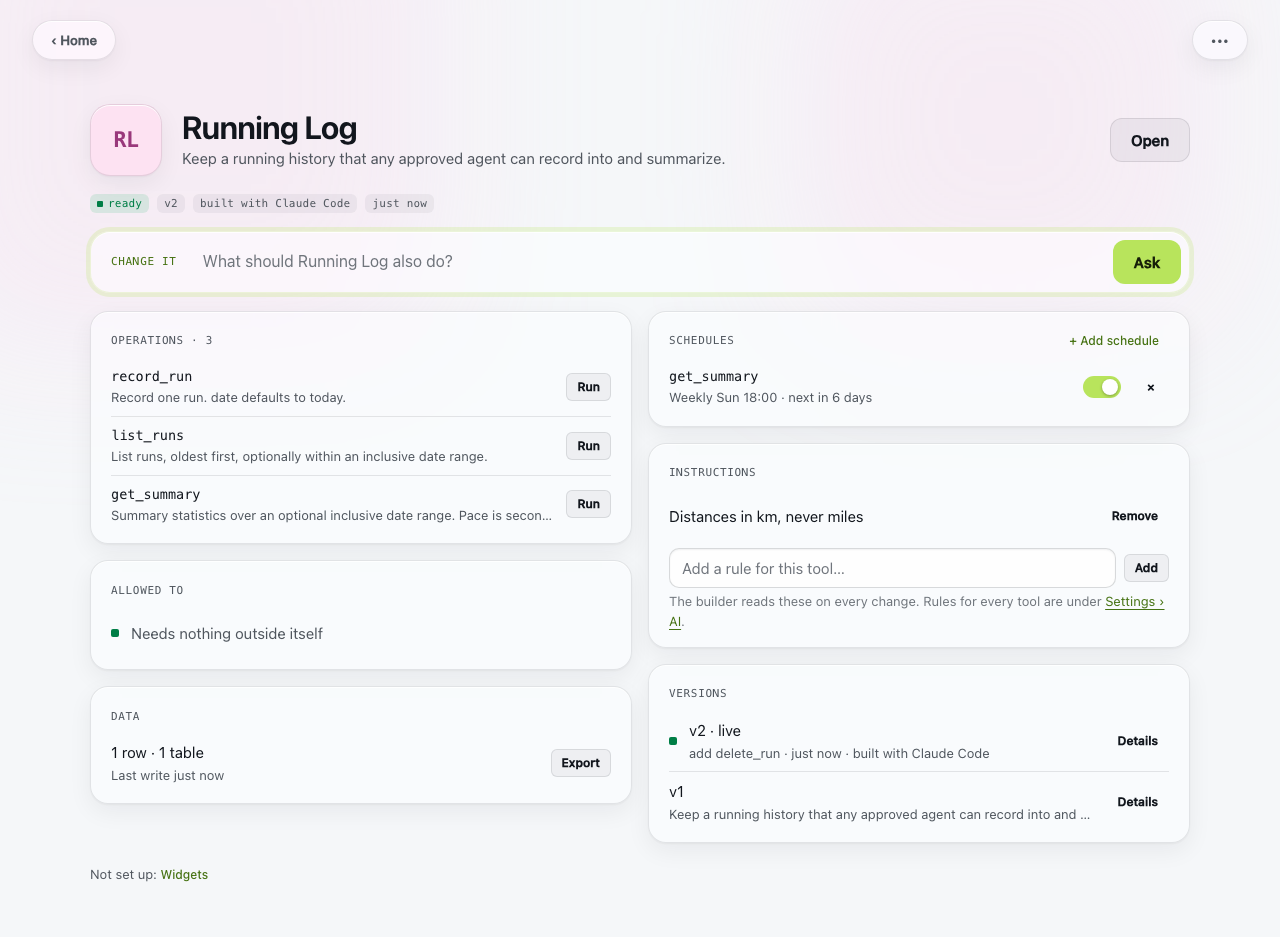
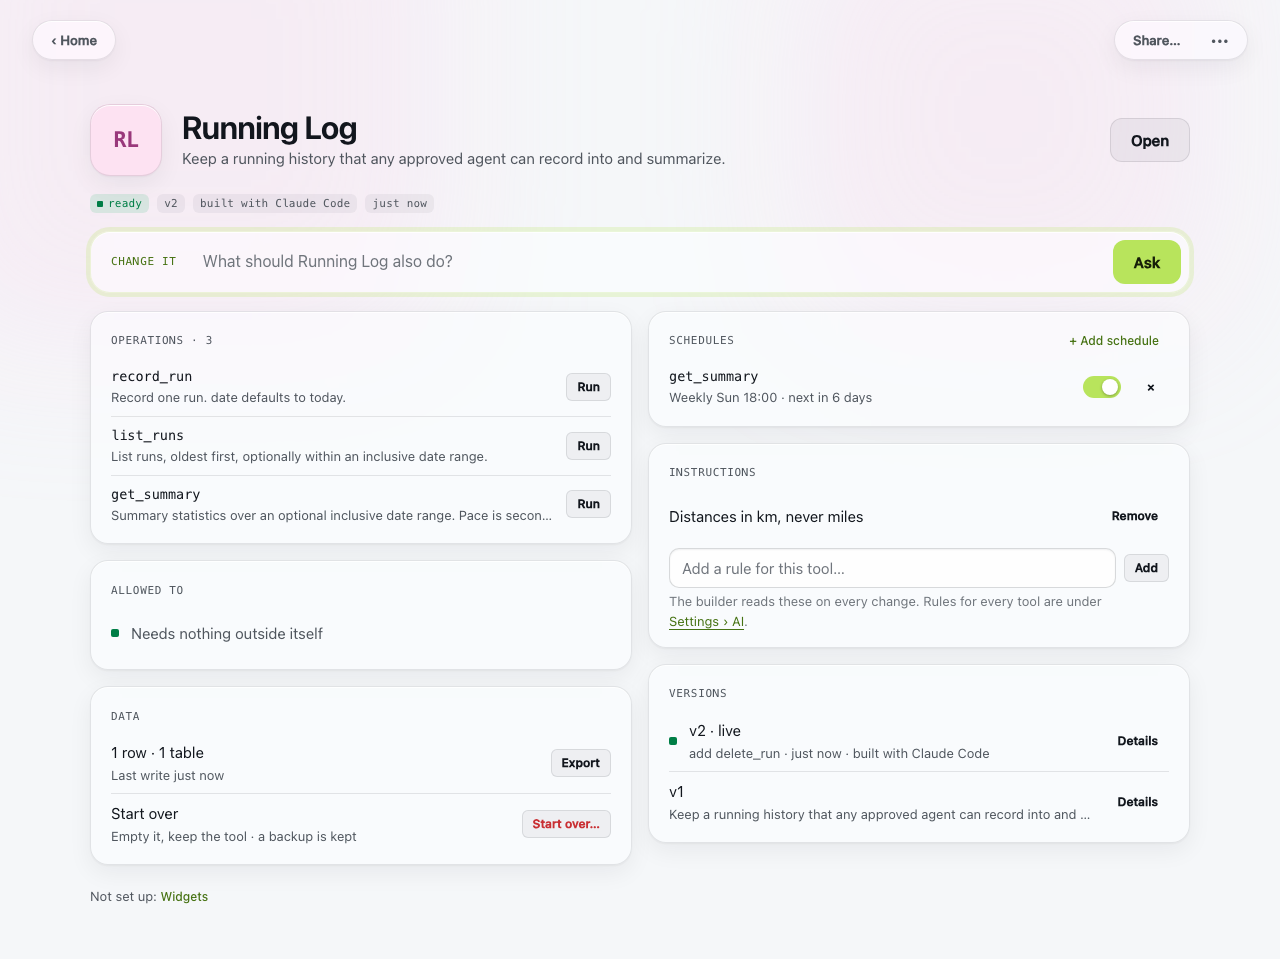
Docs and screenshots for sharing and the Hub
Architecture (the sharing domain, bundles, the shelf), security (code from outside: the same checks and sandbox, the reading is advice, source is the platform's, sample data runs with nothing granted, the scan before sharing), the threat model, writing tools (sample data); screenshots of the Hub, Share…, installing from Hub and a version's Files, from docs-shots.

diff --git a/test/e2e/docs-shots.ts b/test/e2e/docs-shots.ts
@@ -190,6 +190,43 @@ try {
     return { x: r.left, y: r.top + window.scrollY, width: r.width, height: r.height };
   });
   await shot("build-failed", { width: 1280, height: 1000, clip: { x: card.x - 20, y: card.y - 20, width: card.width + 40, height: card.height + 40 } });
+
+  // 6. The Hub: Hewn's own tools.
+  await page.setViewportSize({ width: 1280, height: 1000 });
+  await page.goto(`${web}/#/hub`);
+  await page.locator(".hub-card").first().waitFor();
+  await page.waitForTimeout(800);
+  await shot("hub", { width: 1280, height: 1000 });
+
+  // 7. Share…: Running Log with sample data, written by hand (a new version, v3).
+  const sample = JSON.stringify([1, 2, 3].map((n) => ({ operation: "record_run", input: { distanceKm: 4 + n * 1.5, durationSeconds: 1400 + n * 420, notes: n === 2 ? "Hill repeats" : undefined } })), null, 2);
+  const sb = await page.evaluate(async (text: string) => (await fetch("/api/capabilities/running-log/sample", { method: "POST", headers: { "x-hewn-ui": "1", "content-type": "application/json" }, body: JSON.stringify({ text }) })).json(), sample);
+  await settle(sb.buildId);
+  await page.goto(`${web}/#/c/running-log`);
+  await page.locator(".info-section").first().waitFor();
+  await page.getByRole("button", { name: "Share…" }).click();
+  await page.locator("dialog[open]").getByText("always included").waitFor();
+  await page.waitForTimeout(400);
+  const dialog = async () => {
+    const r = await page.locator("dialog[open]").last().boundingBox();
+    return { x: r!.x - 16, y: r!.y - 16, width: r!.width + 32, height: r!.height + 32 };
+  };
+  await shot("share", { width: 1280, height: 1000, clip: await dialog() });
+  await page.keyboard.press("Escape");
+
+  // 8. Installing from the Hub: Hewn's reading, what it will ask for, the name, sample data.
+  await page.goto(`${web}/#/hub/plant-log`);
+  await page.getByRole("button", { name: "Install" }).click();
+  await page.locator("dialog[open]").getByText("It will ask for").waitFor();
+  await page.waitForTimeout(400);
+  await shot("install", { width: 1280, height: 1000, clip: await dialog() });
+  await page.keyboard.press("Escape");
+
+  // 9. A version's files: what v3 changed (its sample data).
+  await page.goto(`${web}/#/c/running-log/v/3?tab=files`);
+  await page.locator(".code-line").first().waitFor();
+  await page.waitForTimeout(400);
+  await shot("version-files", { width: 1280, height: 760 });
 } finally {
   await browser.close();
   await sv.stop();

diff --git a/docs/internal/architecture.md b/docs/internal/architecture.md
@@ -50,7 +50,7 @@ Integration tests are in `test/`. Example tools are in `seeds/`.
 | --- | --- | --- | --- |
 | `Sql` | the owner's database, synchronous | DO `storage.sql` | `node:sqlite` |
 | `Blobs` | versions, owner icons, screenshots | the `disk` service | a directory |
-| `CapabilityRuntime` | invoke, describe, migrate, copy and drop state | CapabilityHost + facets | in-process |
+| `CapabilityRuntime` | invoke, describe, migrate, copy and drop state, dump and count it | CapabilityHost + facets | in-process |
 | `Workbench` | build workspaces: open, run a builder, bundle, read back, visual check | the supervisor | local (`packages/cli/src/workbench.ts`) |
 | `SecretStore` | capability secrets and model keys | AES-256-GCM rows in the owner's database | memory |
 
@@ -62,7 +62,8 @@ Every authority check happens in the core, not in the MCP or HTTP layer, so ever
 | --- | --- |
 | `discovery.ts` | `list` and `get`: the capabilities a principal can see |
 | `presentation.ts` | a tool's name, icon, hue and saturation as the owner sets them |
-| `data.ts` | a tool's lifecycle and data, owner only: delete (archive) and restore, rollback, purge, export and import |
+| `data.ts` | a tool's lifecycle and data, owner only: delete (archive) and restore, rollback, purge, export and import, Start over, its rows per table, and its versions' files for the code browser |
+| `sharing.ts` | a tool as a file: the share check (the scan) and the bundle, staging and installing a file, the owner's reading of it (the intake's summary), the Official shelf, sample data |
 | `grants.ts` | readiness, grants, secrets and config, delegated agents, the owner's confirmation of agents' destructive calls |
 | `connections.ts` | Accounts: a connection's sign-in step and health |
 | `sessions.ts` | tool UI tickets and sessions, web sessions, the public URL, passkeys |
@@ -78,7 +79,11 @@ Every authority check happens in the core, not in the MCP or HTTP layer, so ever
 
 Each extends `Domain` (`context.ts`): the ports, the event bus, the cache of loaded versions, and the lookups every domain makes (`activeManifest`, `loadVersion` …). A domain calls another domain's public methods through the facade (`this.platform.readiness()`), so a wrapper on a `Platform` method sees every call from another domain (a domain's calls to its own methods stay inside it), and reaches what `Platform` doesn't offer through `this.d` (`this.d.grants.offers()`). Settings a host or a test may change after start (`confirmWaitMs`, `logRetentionDays` …) stay on `Platform` and are read from it each time.
 
-The lower-level modules sit next to `platform.ts`: `registry.ts` (the owner's database), `models.ts` (provider adapters, the catalog), `widgets.ts` (templates), `schedules.ts` (cadences, the store), `docs.ts` (Hewn's docs for `hewn_docs` and the intake: sections and search) and the rest. `platform.ts` re-exports the domains' types and helpers, so hosts and tests import from `@hewntools/core/platform.ts` only.
+The lower-level modules sit next to `platform.ts`: `registry.ts` (the owner's database), `models.ts` (provider adapters, the catalog), `widgets.ts` (templates), `schedules.ts` (cadences, the store), `docs.ts` (Hewn's docs for `hewn_docs` and the intake: sections and search), `bundle.ts` (a tool as a file: a store-only zip with CRC32, the `hewn-bundle.json` sidecar, `sample/calls.json`, and the scan before sharing), `diff.ts` (the line diff and hunks the code browser shows) and the rest.
+
+**A tool as a file.** `<id>.hewn.zip` holds one version's files (what `versionFiles` keeps) and the sidecar: the format, the Hewn and ABI that made it, the tool and version it came from (`{ id, version, hash }`) and, from Hewn's own shelf, Hewn's reading. Installing one stages it first (`bundles/<token>.zip` in the blobs, a day at most) so the owner can read its code and have the intake summarize it (mode `summarize`), then runs a create build whose builder is `bundle` (no builder runs) through the normal validation. The manifest's `source` (ABI 2.5) comes from the capability's record (`capabilities.source`, or the install's request for its first version); validation stamps it on every version, so a builder can't change or drop it. Sample data replays after an install with sample data, or a Start over, through `Validation.replayCall`: the contract, with no hosts, no other tools and no model.
+
+**The Official shelf** is `seeds/` (`shelf.json`, and each tool's `.hub/` folder with its listing and card images, which never becomes part of a version). The supervisor reads it (`cli/src/shelf.ts`) and serves it to workerd (`/shelf/tools`, `/shelf/image`); the npm package carries it in `dist/seeds/`. `test/e2e/hub-shots.ts` makes the card images. `platform.ts` re-exports the domains' types and helpers, so hosts and tests import from `@hewntools/core/platform.ts` only.
 
 Principals (`auth.ts`): `user` (the owner, from the web client or the CLI), `agent` (an MCP client), `ui` (a tool's own UI, limited to that tool), `capability` (a `ctx.call`), `schedule` and `widget`.
 

diff --git a/docs/threat-model.md b/docs/threat-model.md
@@ -12,6 +12,7 @@ What Hewn protects when it runs on your own machine, and what it doesn't. Short 
 | **Agents over MCP** | OAuth with your approval for each one. Tokens are stored hashed and expire (1 hour, refreshed for up to 30 days of use). Agents get only the scopes you approve, and can't grant themselves anything. Destructive operations wait for your confirmation, also when the agent reaches them through another tool. Reconnecting an agent keeps what you narrowed it to. Disconnecting an agent takes effect on its next call. |
 | **The internet (with a tunnel or a public URL)** | The tunnel and the reverse proxy reach a separate listener. On any host there, only MCP and the agent sign-in endpoints answer. On the public URL's hosts (`hewn url`), the web client and tool UIs answer too, behind a passkey or a sign-in link printed on the server ([remote access](remote-access.md)). Admin never answers there. Requests are rate limited per address (as your proxy reports it) and logged. Anyone can *ask* to connect an agent, but nothing is granted without your approval. Pending requests are capped, separately from your local ones, and expire after 15 minutes. |
 | **Other websites in your browser** | Hewn's local port answers only its own names (`127.0.0.1`, `localhost`, `hewn.localhost`), so a page can't reach it by pointing its own name at your machine (DNS rebinding), and MCP refuses other sites' requests. The web client has its own origin (`hewn.localhost`, or the public URL); each tool UI runs sandboxed on an opaque origin (under `/tools/<id>/`), with a strict CSP and SameSite cookies (`__Host-` and `Secure` on the public URL). Sign-in links work once, for two minutes. Passkeys work only on the address they were made for. |
+| **A tool someone shared with you** | It installs through the same checks as a tool your builder makes, and runs in the same sandbox. Nothing in its file grants it anything: it asks for hosts, a model or your other tools after it's installed, one grant at a time. Before you install it, your builder reads its code and says what it does with your data, and you can read all of it. A file never carries anyone's data, keys or settings. |
 | **Lost data** | Versions are immutable, and migrations can't destroy data and are tested on a copy first. There's rollback, export, and nightly backups. Backups never contain secrets in plain text or usable tokens. |
 
 ## What isn't protected

diff --git a/docs/building-tools.md b/docs/building-tools.md
@@ -71,7 +71,9 @@ If the builder itself can't work (signed out, out of usage), Hewn stops instead 
 
 Every change is a new version. Your data stays and moves forward with each one. Info shows the last two; **All versions** (or **Versions** in the tool's menu) lists every one. **Details** opens a version; **Restore** there makes it active again, with the data kept. Restoring is refused if a newer version changed the data in a way the older code can't read.
 
-A version's page shows what led to it: the conversation with the intake, the spec and the builder's log, one tab each. **Files** shows its code: **Changes** lists what changed since the version before, each file as a diff (added lines green, removed lines red, with both line numbers), and **Source** shows every file as it is. **Continue from here** opens a change with that conversation on top, so you pick up where you left off instead of explaining the tool again; opening **Change…** on a tool offers the same ("Continue from the last conversation?").
+A version's page shows what led to it: the conversation with the intake, the spec and the builder's log, one tab each. **Files** shows its code: **Changes** lists what changed since the version before, each file as a diff (added lines green, removed lines red, with both line numbers), and **Source** shows every file as it is.
+
+![A version's Files: what changed since the version before, as a diff with both line numbers](images/version-files.png) **Continue from here** opens a change with that conversation on top, so you pick up where you left off instead of explaining the tool again; opening **Change…** on a tool offers the same ("Continue from the last conversation?").
 
 Operations are versioned too (`list_runs@1`). A breaking change adds `list_runs@2` next to the old one, so agents and other tools that use `@1` keep working.
 

diff --git a/docs/internal/security-and-authority.md b/docs/internal/security-and-authority.md
@@ -338,6 +338,15 @@ The platform still owns:
 
 An authorization engine answers relationship questions; it does not replace product-level authority semantics.
 
+## Code from outside (a shared tool)
+
+A tool installed from a file or from the Hub runs through the same validation and sandbox as a builder's: its manifest, its code bundled and loaded, its tests, its migrations, its UI rendered. Nothing in a bundle can grant itself anything: what its manifest asks for (hosts, a model, other tools' operations, secrets for a connection) is asked of the owner after install, one grant at a time, as for any new tool. A bundle never holds state, secrets, config values, the build's conversation or logs, and says nothing about whose Hewn it came from.
+
+- **The reading is advisory.** The intake's summary (Hewn's for an Official tool, the owner's own builder's for a file) says what the code does with the owner's data and where it differs from what it says. It isn't a gate: the code is what runs, and the owner can read all of it before installing.
+- **`source` is the platform's.** Where a tool came from is the capability's record; validation writes it into every version's manifest, replacing whatever a builder wrote, so a later change can't claim another origin.
+- **Sample data runs with nothing granted.** Replayed after install (on the owner's request) and before every promotion, each call goes through the contract with no hosts, no other tools and no model.
+- **Sharing scans first.** Before a tool is shared, its files are scanned: personal data and key shapes warn; an exact match of one of the owner's own stored values (any tool's secrets and settings, the model providers' keys) blocks the share.
+
 ## Security invariants
 
 1. The user is the root authority.

diff --git a/docs/sharing.md b/docs/sharing.md
@@ -23,6 +23,8 @@ Two things stop a share:
 
 From the terminal: `hewn share <id> [--version N] [--out file]` prints the same findings and writes the file unless something stops it.
 
+![Share Running Log: a version picker, what's in it (its sample data, always included), what's never in it, and Download](images/share.png)
+
 ## Sample data
 
 Sample data is what a tool looks like in use: a list of calls to its operations (`sample/calls.json`) that fill an empty tool with made-up entries. Whoever installs your tool can start with it instead of a blank screen, and screenshots of the tool use it. It holds made-up names and places, never yours.
@@ -41,6 +43,8 @@ Then one sheet shows:
 - **It will ask for:** the hosts it reaches, a model, other tools, keys or settings. This is a preview: nothing is granted by installing. The tool asks once it's installed, as any new tool does.
 - **Name:** its own, or "Plant Log 2" if you already have a Plant Log. The tool's id comes from the name.
 - **Start with sample data**, ticked when it has some.
+
+![Install Plant Log from Hub: what it does, a warning that it sends a photo to the model when asked, Source code, what it will ask for, its name and Start with sample data](images/install.png)
 
 Installing runs the tool's own tests, as for any build, but no builder: the code is the file's. Then the tool opens and asks for what it needs.
 

diff --git a/CHANGELOG.md b/CHANGELOG.md
@@ -20,6 +20,7 @@ Hewn follows semver for the CLI and your data: `hewn upgrade` stays within a 0.x
 - **The box:** attached files and images are 64px tiles with their name and ×, and open when clicked; **Draft now** is a link; the model menu says who builds and on what ("Claude Code · Fable · high"); a rule the intake saved is one line, "Saved as a rule: …", with Undo.
 - **Set icon** shows the icon at the three sizes it's seen at, centres the 5×5 grid with a count of lit cells, and gives Colour and Saturation the same width.
 - A change waiting for the one before it says so the same way in the change panel, the Inbox and Activity: "waiting for the change before it".
+- Docs: [Sharing tools](docs/sharing.md) is new; the web client, building tools, the threat model and the internal architecture and security notes cover sharing and the Hub.
 - For hosts: `GET /api/capabilities/:id/data` (owner only) gives a tool's rows per table, counted without reading them, and its last write; the runtime port gains `countState`.
 
 ## 0.4.8 (2026-10-24)

diff --git a/docs/capabilities.md b/docs/capabilities.md
@@ -59,6 +59,8 @@ Three small tools in the repo's [`seeds/`](../seeds) are meant to be read and co
 
 From a checkout of the repo: `hewn install seeds/habits`.
 
+**Sample data** (`sample/calls.json`) is the tool in use: calls to its operations that fill an empty tool with made-up entries. Hewn replays it when someone installs the tool with sample data, and before every version goes live, and needs it to share the tool. See [the tool spec](../spec/tools.md#sample-data-since-25).
+
 ## Reference
 
 The manifest and the ABI (the module, `ctx`, environment, versions) are described in full in [capability-model.md](../spec/capability-model.md#capability-manifest). Hewn implements ABI 2.4. A capability declares the lowest version it needs in `"abi"`; minor versions only add, so a capability built for 2.0 keeps running.

diff --git a/docs/using-hewn.md b/docs/using-hewn.md
@@ -30,6 +30,8 @@ A widget shows a tool's data at a glance: today's habits, tonight's aurora forec
 
 New also links to the Hub, under the box ("Or start from one in Hub").
 
+![The Hub: search, Install from a file, the Official and tag filters, and a grid of Hewn's own tools, each with a screenshot, what it needs and the Official mark](images/hub.png)
+
 ## Search and commands
 
 Press `⌘K` (or `Ctrl K`, or `/`), or click Search. Type to find a tool, a page (Activity, Models, Backups…) or an action (New tool, Edit Home, Back up now, Install from a file…). Enter opens it. Tools on the Hub you don't have yet come last.
